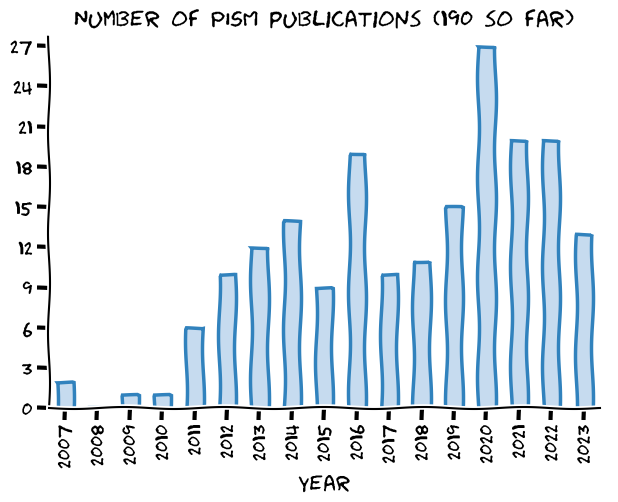
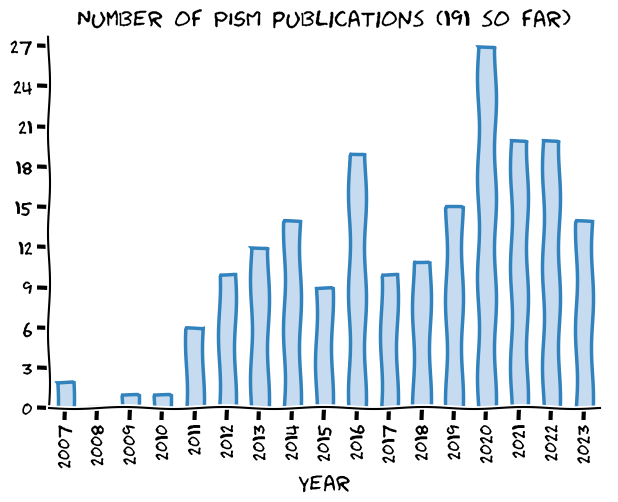
[skip ci] Update the website

Changed region(s): [[0.123, 0.0, 0.9223, 0.0598], [0.9223, 0.5976, 0.9531, 0.8068], [0.9223, 0.4183, 0.9838, 0.5677]]

diff --git a/publications/index.html b/publications/index.html
@@ -291,6 +291,7 @@ window.onscroll = function() {
 <ol>
   <li>R.E. Archer, J.C. Ely, T.J. Heaton, F.E.G. Butcher, A.L.C. Hughes, and C.D. Clark. Assessing ice sheet models against the landform record: the Likelihood of Accordant Lineations Analysis (LALA) tool. <em>Earth Surface Processes and Landforms</em>, 2023. URL: <a href="https://onlinelibrary.wiley.com/doi/abs/10.1002/esp.5658">https://onlinelibrary.wiley.com/doi/abs/10.1002/esp.5658</a>, <a href="https://doi.org/10.1002/esp.5658">doi:10.1002/esp.5658</a>.</li>
   <li>Nico Bauer, David P Keller, Julius Garbe, Kristine Karstens, Franziska Piontek, Werner von Bloh, Wim Thiery, Maria Zeitz, Matthias Mengel, Jessica Strefler, Kirsten Thonicke, and Ricarda Winkelmann. Exploring risks and benefits of overshooting a 1.5°c carbon budget over space and time. <em>Environmental Research Letters</em>, 18(5):054015, 2023. <a href="https://doi.org/10.1088/1748-9326/accd83">doi:10.1088/1748-9326/accd83</a>.</li>
+  <li>J. Beckmann and R. Winkelmann. Effects of extreme melt events on ice flow and sea level rise of the Greenland Ice Sheet. <em>The Cryosphere</em>, 17(7):3083–3099, 2023. URL: <a href="https://tc.copernicus.org/articles/17/3083/2023/">https://tc.copernicus.org/articles/17/3083/2023/</a>, <a href="https://doi.org/10.5194/tc-17-3083-2023">doi:10.5194/tc-17-3083-2023</a>.</li>
   <li>J. Feldmann and A. Levermann. Timescales of outlet-glacier flow with negligible basal friction: theory, observations and modeling. <em>The Cryosphere</em>, 17(1):327–348, 2023. URL: <a href="https://tc.copernicus.org/articles/17/327/2023/">https://tc.copernicus.org/articles/17/327/2023/</a>, <a href="https://doi.org/10.5194/tc-17-327-2023">doi:10.5194/tc-17-327-2023</a>.</li>
   <li>Evan J. Gowan, Sebastian Hinck, Lu Niu, Caroline Clason, and Gerrit Lohmann. The impact of spatially varying ice sheet basal conditions on sliding at glacial time scales. <em>Journal of Glaciology</em>, pages 1–15, 2023. <a href="https://doi.org/10.1017/jog.2022.125">doi:10.1017/jog.2022.125</a>.</li>
   <li>A. Johnson, A. Aschwanden, T. Albrecht, and R. Hock. Range of 21st century ice mass changes in the Filchner-Ronne region of Antarctica. <em>Journal of Glaciology</em>, 2023. <a href="https://doi.org/10.1017/jog.2023.10">doi:10.1017/jog.2023.10</a>.</li>

diff --git a/publications/submitted/index.html b/publications/submitted/index.html
@@ -285,6 +285,7 @@ window.onscroll = function() {
 <h3 id="2023">2023</h3>
 
 <ol>
+  <li>David Chandler, Petra Langebroek, Ronja Reese, Torsten Albrecht, Julius Garbe, and Ricarda Winkelmann. Antarctic Ice Sheet tipping in the last 800 kyr warns of future ice loss. <em>research square preprint</em>, 2023. URL: <a href="https://doi.org/10.21203/rs.3.rs-3042739/v1">https://doi.org/10.21203/rs.3.rs-3042739/v1</a>.</li>
   <li>A. Delhasse, J. Beckmann, C. Kittel, and X. Fettweis. Coupling the regional climate MAR model with the ice sheet model PISM mitigates the melt-elevation positive feedback. <em>The Cryosphere Discussions</em>, 2023:1–21, 2023. URL: <a href="https://tc.copernicus.org/preprints/tc-2023-15/">https://tc.copernicus.org/preprints/tc-2023-15/</a>, <a href="https://doi.org/10.5194/tc-2023-15">doi:10.5194/tc-2023-15</a>.</li>
   <li>J. Garbe, M. Zeitz, U. Krebs-Kanzow, and R. Winkelmann. The evolution of future Antarctic surface melt using PISM-dEBM-simple. <em>The Cryosphere Discussions</em>, 2023:1–39, 2023. URL: <a href="https://tc.copernicus.org/preprints/tc-2022-249/">https://tc.copernicus.org/preprints/tc-2022-249/</a>, <a href="https://doi.org/10.5194/tc-2022-249">doi:10.5194/tc-2022-249</a>.</li>
 </ol>

diff --git a/publications/published.md b/publications/published.md
@@ -2,17 +2,18 @@
 
 1. R\.E\. Archer, J\.C\. Ely, T\.J\. Heaton, F\.E\.G\. Butcher, A\.L\.C\. Hughes, and C\.D\. Clark\. Assessing ice sheet models against the landform record: the Likelihood of Accordant Lineations Analysis \(LALA\) tool\. *Earth Surface Processes and Landforms*, 2023\. URL: [https://onlinelibrary\.wiley\.com/doi/abs/10\.1002/esp\.5658](https://onlinelibrary.wiley.com/doi/abs/10.1002/esp.5658), [doi:10\.1002/esp\.5658](https://doi.org/10.1002/esp.5658)\.   
 2. Nico Bauer, David P Keller, Julius Garbe, Kristine Karstens, Franziska Piontek, Werner von Bloh, Wim Thiery, Maria Zeitz, Matthias Mengel, Jessica Strefler, Kirsten Thonicke, and Ricarda Winkelmann\. Exploring risks and benefits of overshooting a 1\.5°c carbon budget over space and time\. *Environmental Research Letters*, 18\(5\):054015, 2023\. [doi:10\.1088/1748\-9326/accd83](https://doi.org/10.1088/1748-9326/accd83)\.   
-3. J\. Feldmann and A\. Levermann\. Timescales of outlet\-glacier flow with negligible basal friction: theory, observations and modeling\. *The Cryosphere*, 17\(1\):327–348, 2023\. URL: [https://tc\.copernicus\.org/articles/17/327/2023/](https://tc.copernicus.org/articles/17/327/2023/), [doi:10\.5194/tc\-17\-327\-2023](https://doi.org/10.5194/tc-17-327-2023)\.   
-4. Evan J\. Gowan, Sebastian Hinck, Lu Niu, Caroline Clason, and Gerrit Lohmann\. The impact of spatially varying ice sheet basal conditions on sliding at glacial time scales\. *Journal of Glaciology*, pages 1–15, 2023\. [doi:10\.1017/jog\.2022\.125](https://doi.org/10.1017/jog.2022.125)\.   
-5. A\. Johnson, A\. Aschwanden, T\. Albrecht, and R\. Hock\. Range of 21st century ice mass changes in the Filchner\-Ronne region of Antarctica\. *Journal of Glaciology*, 2023\. [doi:10\.1017/jog\.2023\.10](https://doi.org/10.1017/jog.2023.10)\.   
-6. X\. Luo and T\. Lin\. A semi\-empirical framework for ice sheet response analysis under oceanic forcing in Antarctica and Greenland\. *Climate Dynamics*, 60:213–226, 2023\. [doi:10\.1007/s00382\-022\-06317\-x](https://doi.org/10.1007/s00382-022-06317-x)\.   
-7. A\. Løkkegaard, K\. Mankoff, C\. Zdanowicz, G\. D\. Clow, M\. P\. Lüthi, S\. Doyle, H\. Thomsen, D\. Fisher, J\. Harper, A\. Aschwanden, B\. M\. Vinther, D\. Dahl\-Jensen, H\. Zekollari, T\. Meierbachtol, I\. McDowell, N\. Humphrey, A\. Solgaard, N\. B\. Karlsson, S\. A\. Khan, B\. Hills, R\. Law, B\. Hubbard, P\. Christoffersen, M\. Jacquemart, R\. S\. Fausto, and W\. T\. Colgan\. Greenland and canadian arctic ice temperature profiles\. *The Cryosphere*, 2023\. URL: [https://tc\.copernicus\.org/preprints/tc\-2022\-138/](https://tc.copernicus.org/preprints/tc-2022-138/), [doi:10\.5194/tc\-2022\-138](https://doi.org/10.5194/tc-2022-138)\.   
-8. R\. Reese, J\. Garbe, E\. A\. Hill, B\. Urruty, K\. A\. Naughten, O\. Gagliardini, G\. Durand, F\. Gillet\-Chaulet, D\. Chandler, P\. M\. Langebroek, and R\. Winkelmann\. The stability of present\-day Antarctic grounding lines – Part B: Possible commitment of regional collapse under current climate\. *The Cryosphere*, 2023\. URL: [https://tc\.copernicus\.org/preprints/tc\-2022\-105/](https://tc.copernicus.org/preprints/tc-2022-105/), [doi:10\.5194/tc\-2022\-105](https://doi.org/10.5194/tc-2022-105)\.   
-9. M\. Urbanč and M\. Depolli\. Graphical user interface to perform glacier simulations with pism\. In *2023 46th MIPRO ICT and Electronics Convention \(MIPRO\)*, 315&ndash;320\. 2023\. [doi:10\.23919/MIPRO57284\.2023\.10159747](https://doi.org/10.23919/MIPRO57284.2023.10159747)\.   
-10. B\. Urruty, E\. A\. Hill, R\. Reese, J\. Garbe, O\. Gagliardini, G\. Durand, F\. Gillet\-Chaulet, G\. H\. Gudmundsson, R\. Winkelmann, M\. Chekki, D\. Chandler, and P\. M\. Langebroek\. The stability of present\-day Antarctic grounding lines – Part A: No indication of marine ice sheet instability in the current geometry\. *The Cryosphere*, 2023\. URL: [https://tc\.copernicus\.org/preprints/tc\-2022\-104/](https://tc.copernicus.org/preprints/tc-2022-104/), [doi:10\.5194/tc\-2022\-104](https://doi.org/10.5194/tc-2022-104)\.   
-11. Qing Yan, Lewis A\. Owen, Chuncheng Guo, Zhongshi Zhang, Jinzhe Zhang, and Huijun Wang\. Widespread glacier advances across the Tian Shan during Marine Isotope Stage 3 not supported by climate\-glaciation simulations\. *Fundamental Research*, 3\(1\):102–110, 2023\. URL: [https://www\.sciencedirect\.com/science/article/pii/S266732582200111X](https://www.sciencedirect.com/science/article/pii/S266732582200111X), [doi:10\.1016/j\.fmre\.2022\.01\.033](https://doi.org/10.1016/j.fmre.2022.01.033)\.   
-12. Qing Yan, Ting Wei, and Zhongshi Zhang\. Modeling the timing and extent of glaciations over southeastern Tibet during the last glacial stage\. *Palaeogeography, Palaeoclimatology, Palaeoecology*, 610:111336, 2023\. [doi:10\.1016/j\.palaeo\.2022\.111336](https://doi.org/10.1016/j.palaeo.2022.111336)\.   
-13. Yuao Zhang, Xu Zhang, Jinbo Zan, and Xiaomin Fang\. Investigating uncertainty of simulating Northern Hemisphere Ice Sheet evolution by glacial index method\. *Advances in Earth Science*, 38\(6\):619–630, 2023\. [doi:10\.11867/j\.issn\.1001\-8166\.2023\.031](https://doi.org/10.11867/j.issn.1001-8166.2023.031)\.   
+3. J\. Beckmann and R\. Winkelmann\. Effects of extreme melt events on ice flow and sea level rise of the Greenland Ice Sheet\. *The Cryosphere*, 17\(7\):3083–3099, 2023\. URL: [https://tc\.copernicus\.org/articles/17/3083/2023/](https://tc.copernicus.org/articles/17/3083/2023/), [doi:10\.5194/tc\-17\-3083\-2023](https://doi.org/10.5194/tc-17-3083-2023)\.   
+4. J\. Feldmann and A\. Levermann\. Timescales of outlet\-glacier flow with negligible basal friction: theory, observations and modeling\. *The Cryosphere*, 17\(1\):327–348, 2023\. URL: [https://tc\.copernicus\.org/articles/17/327/2023/](https://tc.copernicus.org/articles/17/327/2023/), [doi:10\.5194/tc\-17\-327\-2023](https://doi.org/10.5194/tc-17-327-2023)\.   
+5. Evan J\. Gowan, Sebastian Hinck, Lu Niu, Caroline Clason, and Gerrit Lohmann\. The impact of spatially varying ice sheet basal conditions on sliding at glacial time scales\. *Journal of Glaciology*, pages 1–15, 2023\. [doi:10\.1017/jog\.2022\.125](https://doi.org/10.1017/jog.2022.125)\.   
+6. A\. Johnson, A\. Aschwanden, T\. Albrecht, and R\. Hock\. Range of 21st century ice mass changes in the Filchner\-Ronne region of Antarctica\. *Journal of Glaciology*, 2023\. [doi:10\.1017/jog\.2023\.10](https://doi.org/10.1017/jog.2023.10)\.   
+7. X\. Luo and T\. Lin\. A semi\-empirical framework for ice sheet response analysis under oceanic forcing in Antarctica and Greenland\. *Climate Dynamics*, 60:213–226, 2023\. [doi:10\.1007/s00382\-022\-06317\-x](https://doi.org/10.1007/s00382-022-06317-x)\.   
+8. A\. Løkkegaard, K\. Mankoff, C\. Zdanowicz, G\. D\. Clow, M\. P\. Lüthi, S\. Doyle, H\. Thomsen, D\. Fisher, J\. Harper, A\. Aschwanden, B\. M\. Vinther, D\. Dahl\-Jensen, H\. Zekollari, T\. Meierbachtol, I\. McDowell, N\. Humphrey, A\. Solgaard, N\. B\. Karlsson, S\. A\. Khan, B\. Hills, R\. Law, B\. Hubbard, P\. Christoffersen, M\. Jacquemart, R\. S\. Fausto, and W\. T\. Colgan\. Greenland and canadian arctic ice temperature profiles\. *The Cryosphere*, 2023\. URL: [https://tc\.copernicus\.org/preprints/tc\-2022\-138/](https://tc.copernicus.org/preprints/tc-2022-138/), [doi:10\.5194/tc\-2022\-138](https://doi.org/10.5194/tc-2022-138)\.   
+9. R\. Reese, J\. Garbe, E\. A\. Hill, B\. Urruty, K\. A\. Naughten, O\. Gagliardini, G\. Durand, F\. Gillet\-Chaulet, D\. Chandler, P\. M\. Langebroek, and R\. Winkelmann\. The stability of present\-day Antarctic grounding lines – Part B: Possible commitment of regional collapse under current climate\. *The Cryosphere*, 2023\. URL: [https://tc\.copernicus\.org/preprints/tc\-2022\-105/](https://tc.copernicus.org/preprints/tc-2022-105/), [doi:10\.5194/tc\-2022\-105](https://doi.org/10.5194/tc-2022-105)\.   
+10. M\. Urbanč and M\. Depolli\. Graphical user interface to perform glacier simulations with pism\. In *2023 46th MIPRO ICT and Electronics Convention \(MIPRO\)*, 315&ndash;320\. 2023\. [doi:10\.23919/MIPRO57284\.2023\.10159747](https://doi.org/10.23919/MIPRO57284.2023.10159747)\.   
+11. B\. Urruty, E\. A\. Hill, R\. Reese, J\. Garbe, O\. Gagliardini, G\. Durand, F\. Gillet\-Chaulet, G\. H\. Gudmundsson, R\. Winkelmann, M\. Chekki, D\. Chandler, and P\. M\. Langebroek\. The stability of present\-day Antarctic grounding lines – Part A: No indication of marine ice sheet instability in the current geometry\. *The Cryosphere*, 2023\. URL: [https://tc\.copernicus\.org/preprints/tc\-2022\-104/](https://tc.copernicus.org/preprints/tc-2022-104/), [doi:10\.5194/tc\-2022\-104](https://doi.org/10.5194/tc-2022-104)\.   
+12. Qing Yan, Lewis A\. Owen, Chuncheng Guo, Zhongshi Zhang, Jinzhe Zhang, and Huijun Wang\. Widespread glacier advances across the Tian Shan during Marine Isotope Stage 3 not supported by climate\-glaciation simulations\. *Fundamental Research*, 3\(1\):102–110, 2023\. URL: [https://www\.sciencedirect\.com/science/article/pii/S266732582200111X](https://www.sciencedirect.com/science/article/pii/S266732582200111X), [doi:10\.1016/j\.fmre\.2022\.01\.033](https://doi.org/10.1016/j.fmre.2022.01.033)\.   
+13. Qing Yan, Ting Wei, and Zhongshi Zhang\. Modeling the timing and extent of glaciations over southeastern Tibet during the last glacial stage\. *Palaeogeography, Palaeoclimatology, Palaeoecology*, 610:111336, 2023\. [doi:10\.1016/j\.palaeo\.2022\.111336](https://doi.org/10.1016/j.palaeo.2022.111336)\.   
+14. Yuao Zhang, Xu Zhang, Jinbo Zan, and Xiaomin Fang\. Investigating uncertainty of simulating Northern Hemisphere Ice Sheet evolution by glacial index method\. *Advances in Earth Science*, 38\(6\):619–630, 2023\. [doi:10\.11867/j\.issn\.1001\-8166\.2023\.031](https://doi.org/10.11867/j.issn.1001-8166.2023.031)\.   
 
 ### 2022
 

diff --git a/publications/submitted_papers.md b/publications/submitted_papers.md
@@ -1,7 +1,8 @@
 ### 2023
 
-1. A\. Delhasse, J\. Beckmann, C\. Kittel, and X\. Fettweis\. Coupling the regional climate MAR model with the ice sheet model PISM mitigates the melt\-elevation positive feedback\. *The Cryosphere Discussions*, 2023:1–21, 2023\. URL: [https://tc\.copernicus\.org/preprints/tc\-2023\-15/](https://tc.copernicus.org/preprints/tc-2023-15/), [doi:10\.5194/tc\-2023\-15](https://doi.org/10.5194/tc-2023-15)\.   
-2. J\. Garbe, M\. Zeitz, U\. Krebs\-Kanzow, and R\. Winkelmann\. The evolution of future Antarctic surface melt using PISM\-dEBM\-simple\. *The Cryosphere Discussions*, 2023:1–39, 2023\. URL: [https://tc\.copernicus\.org/preprints/tc\-2022\-249/](https://tc.copernicus.org/preprints/tc-2022-249/), [doi:10\.5194/tc\-2022\-249](https://doi.org/10.5194/tc-2022-249)\.   
+1. David Chandler, Petra Langebroek, Ronja Reese, Torsten Albrecht, Julius Garbe, and Ricarda Winkelmann\. Antarctic Ice Sheet tipping in the last 800 kyr warns of future ice loss\. *research square preprint*, 2023\. URL: [https://doi\.org/10\.21203/rs\.3\.rs\-3042739/v1](https://doi.org/10.21203/rs.3.rs-3042739/v1)\.   
+2. A\. Delhasse, J\. Beckmann, C\. Kittel, and X\. Fettweis\. Coupling the regional climate MAR model with the ice sheet model PISM mitigates the melt\-elevation positive feedback\. *The Cryosphere Discussions*, 2023:1–21, 2023\. URL: [https://tc\.copernicus\.org/preprints/tc\-2023\-15/](https://tc.copernicus.org/preprints/tc-2023-15/), [doi:10\.5194/tc\-2023\-15](https://doi.org/10.5194/tc-2023-15)\.   
+3. J\. Garbe, M\. Zeitz, U\. Krebs\-Kanzow, and R\. Winkelmann\. The evolution of future Antarctic surface melt using PISM\-dEBM\-simple\. *The Cryosphere Discussions*, 2023:1–39, 2023\. URL: [https://tc\.copernicus\.org/preprints/tc\-2022\-249/](https://tc.copernicus.org/preprints/tc-2022-249/), [doi:10\.5194/tc\-2022\-249](https://doi.org/10.5194/tc-2022-249)\.   
 
 ### 2021
 
